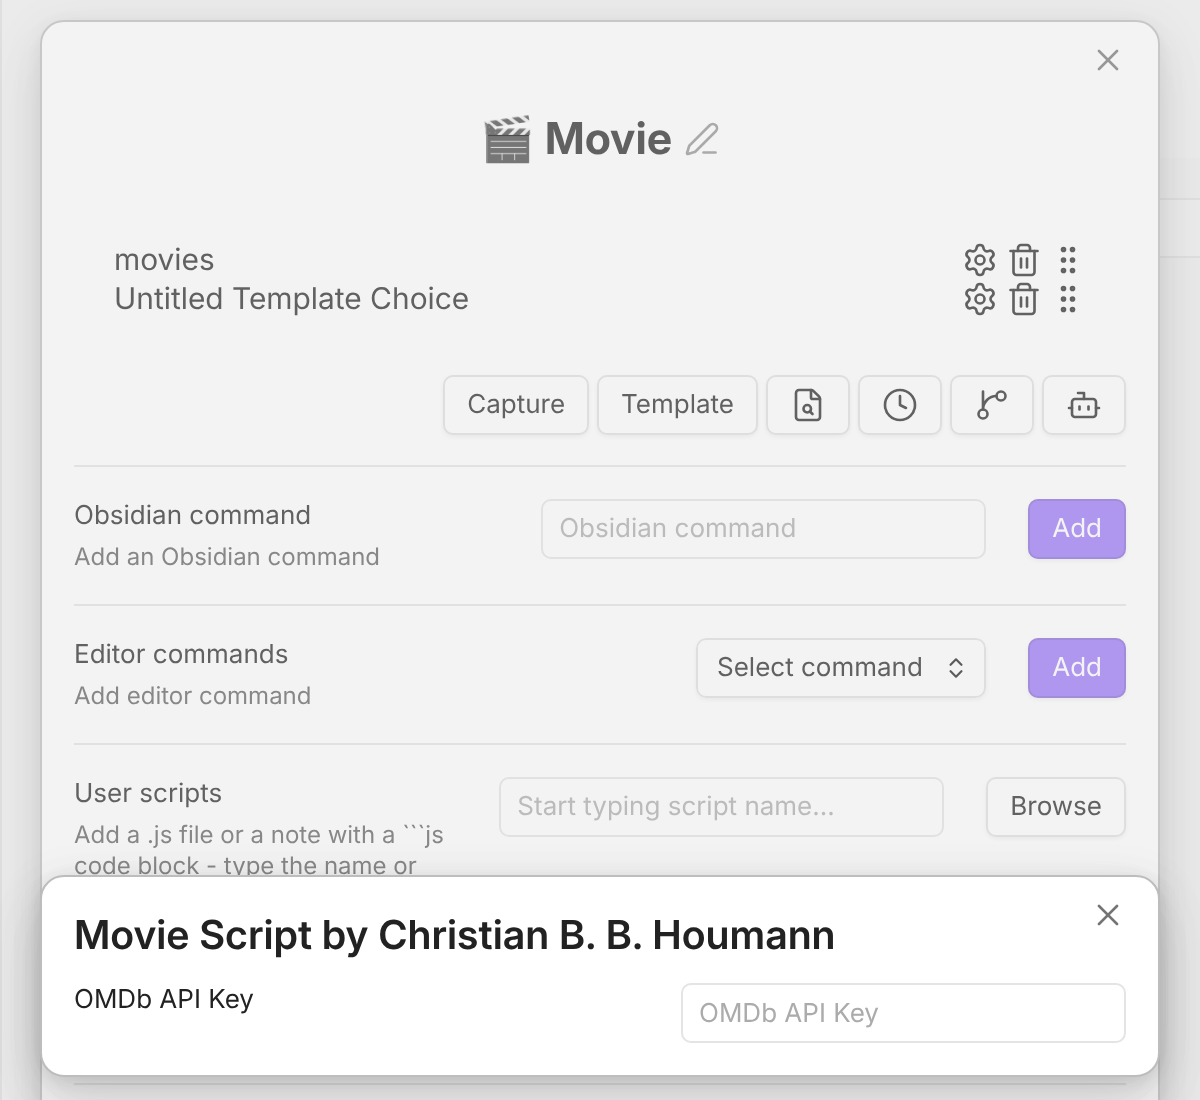
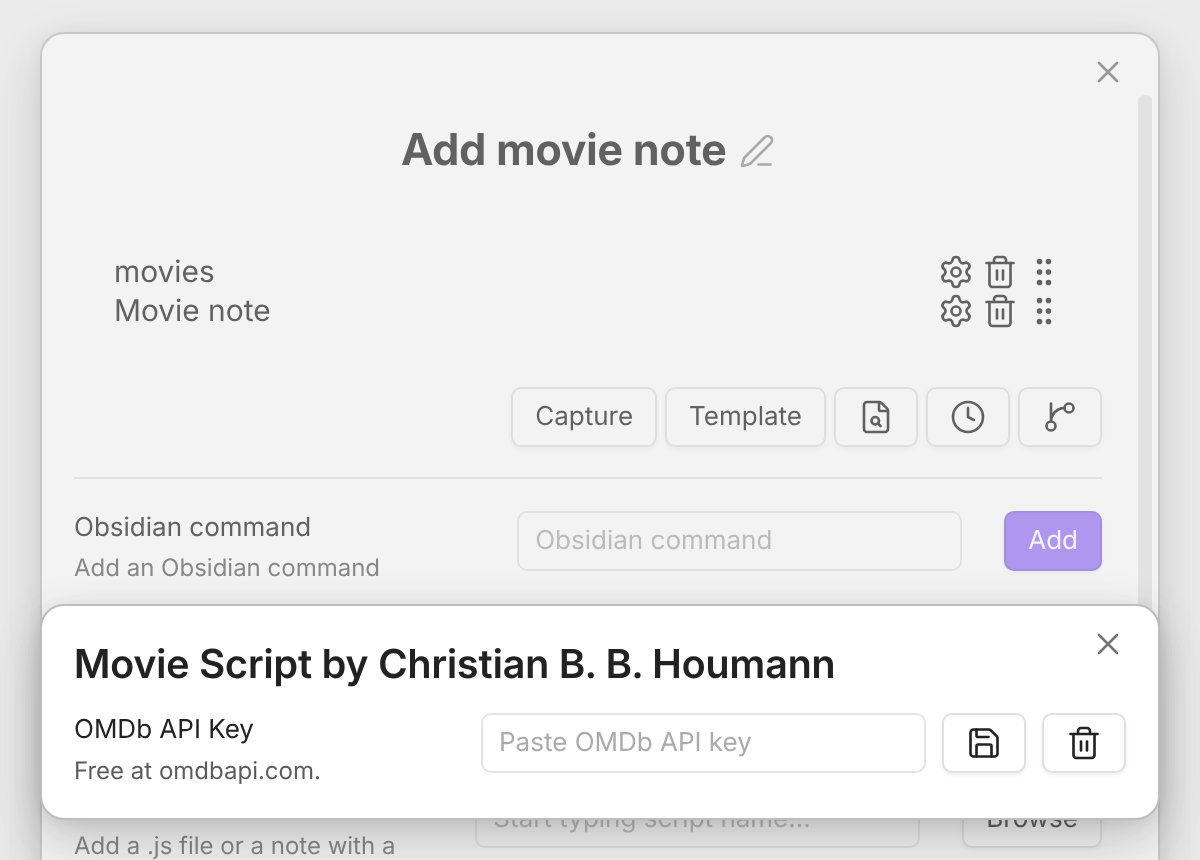
docs: retake the movie script settings screenshot with the secret field

diff --git a/docs/src/content/docs/docs/Examples/Macro_MovieAndSeriesScript.md b/docs/src/content/docs/docs/Examples/Macro_MovieAndSeriesScript.md
@@ -37,7 +37,7 @@ You can find the script <a href="/scripts/movies.js" download>here</a>.
     3. The remaining settings are for you to specify depending on your needs.
 6. Click on the cog icon to the right of the script command to configure the script settings. This should allow you to enter the API key you got from OMDb; click the save icon next to it and QuickAdd keeps it in Obsidian's secret storage, not in `data.json`.
 
-    ![The Movie macro with the movies script settings open, showing the OMDb API Key field](../Images/moviescript_settings.png)
+    ![The movies script settings open over the macro: the OMDb API Key field with its save and clear buttons](../Images/moviescript_settings.png)
 
 You can now use the macro to create notes with movie or TV show information in your vault.
 
